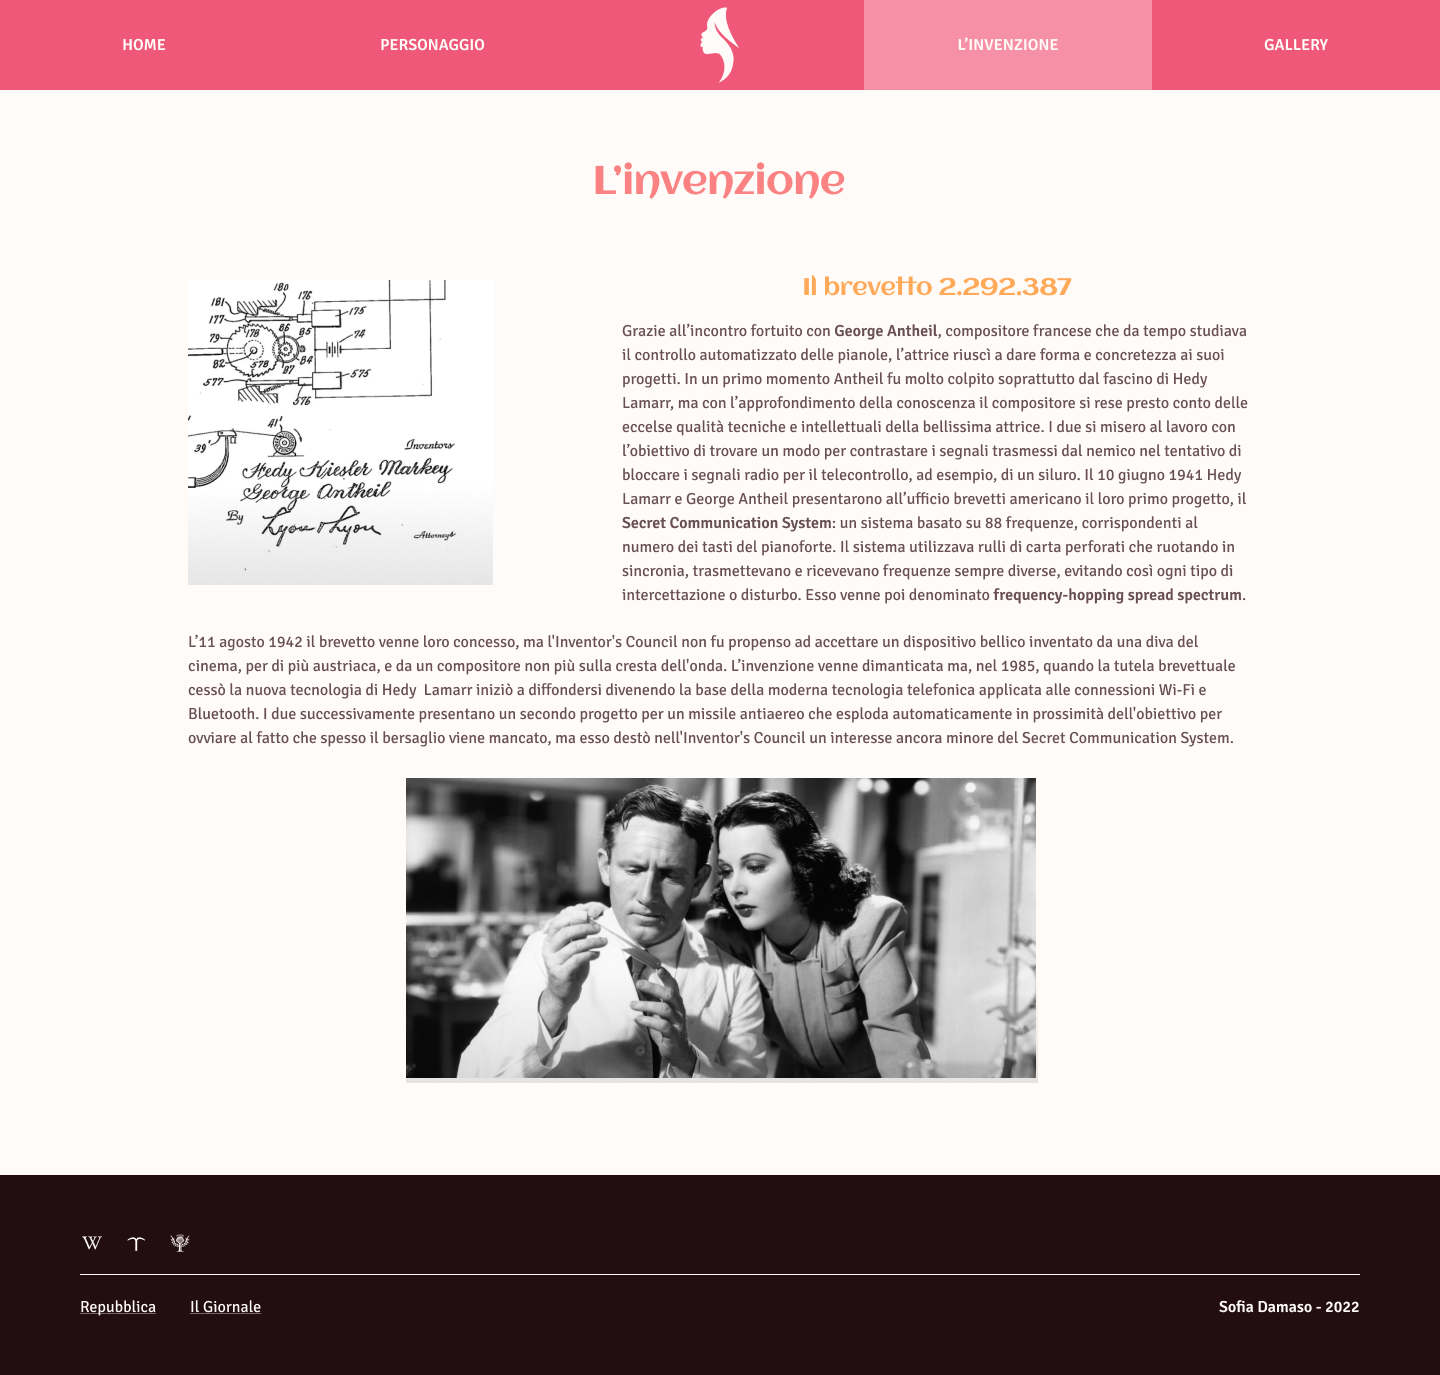
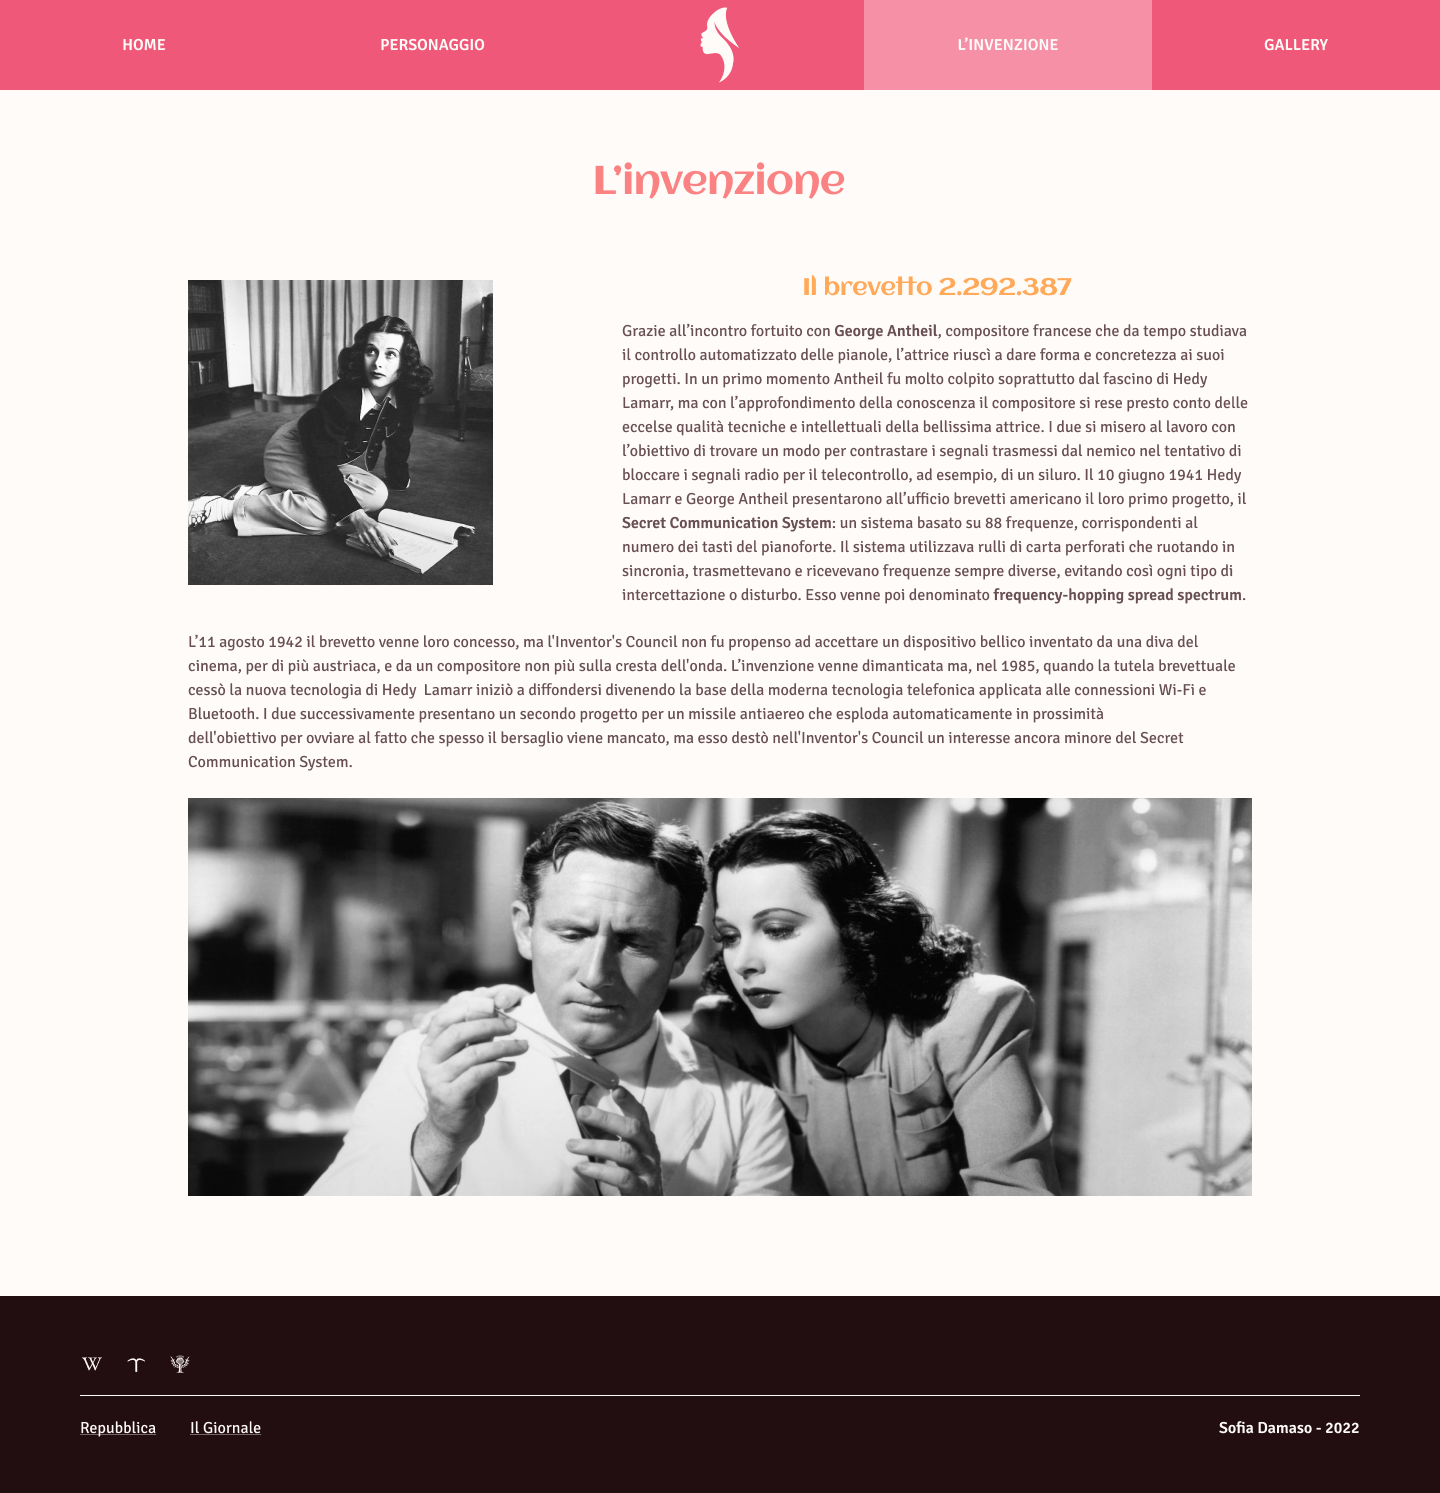
correzioni prof

diff --git a/Sito/style.css b/Sito/style.css
@@ -279,7 +279,7 @@ hr{
 #card_image_bottom{
     display: grid;
     grid-template-columns: 11.66% 6.11% 6.11% 6.11% 6.11% 6.11% 6.11% 6.11% 6.11% 6.11% 6.11% 11.66%;
-    grid-template-areas: ". . . image_bottom image_bottom image_bottom image_bottom image_bottom image_bottom . . .";
+    grid-template-areas: ". image_bottom image_bottom image_bottom image_bottom image_bottom image_bottom image_bottom image_bottom image_bottom image_bottom .";
     column-gap: 1.38vw;
     padding-top: 2vw;
     justify-content: center;
@@ -325,8 +325,8 @@ hr{
 }
 #img_bottom{
     grid-area: image_bottom;
-    width: 43.75vw;
-    height: 21.62vw;
+    width: 73.88vw;
+    height: 27.64vw;
 }
 .card_text_right{
     padding-top: 1.5vw;

diff --git a/Sito/Index.html b/Sito/Index.html
@@ -38,7 +38,7 @@
 <h1>Hedy Lamarr</h1>
 <p id="subtitle">Inventrice oltre che attrice</p>
 <div id="container_image">
-    <img src="Images/1064x398.png" alt="Hedy Lamarr sdraiata" id="hero_image">
+    <img src="Images/1064x398-1.png" alt="Hedy Lamarr sdraiata" id="hero_image">
 </div>
 <h3>“The brains of people are more interesting then the looks”</h3>
 <div id="container_scopri">

diff --git a/Sito/Invenzione.html b/Sito/Invenzione.html
@@ -42,7 +42,7 @@
     </p>
 </div>
 <div id="card_image_bottom">
-     <img src="Images/630x300-3.png" alt="Hedy Lamarr e George Antheil" id="img_bottom">
+     <img src="Images/1064x398-2.png" alt="Hedy Lamarr e George Antheil" id="img_bottom">
 </div>
 
 <!-- footer -->
